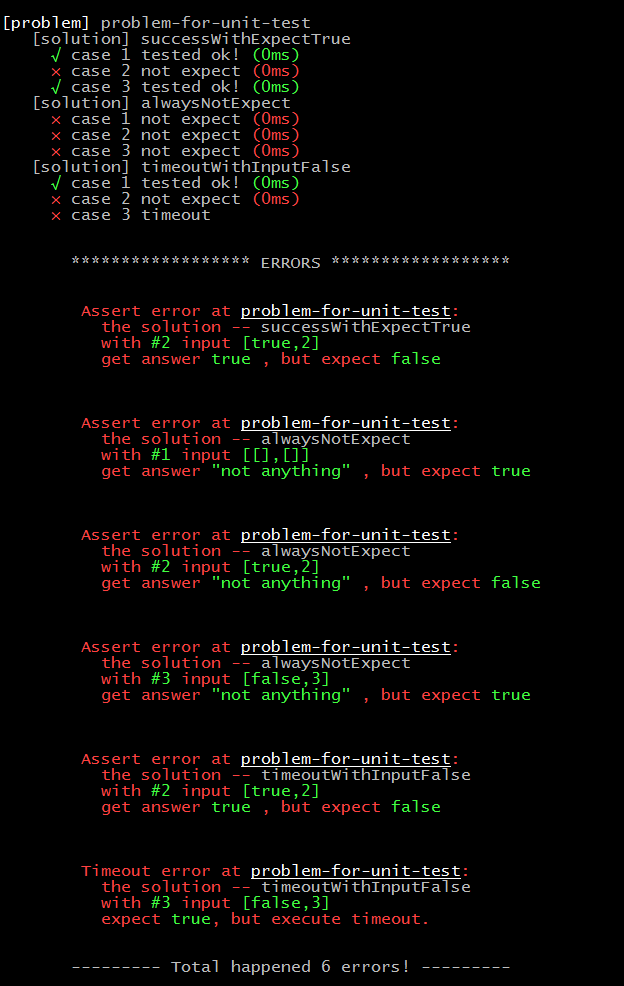
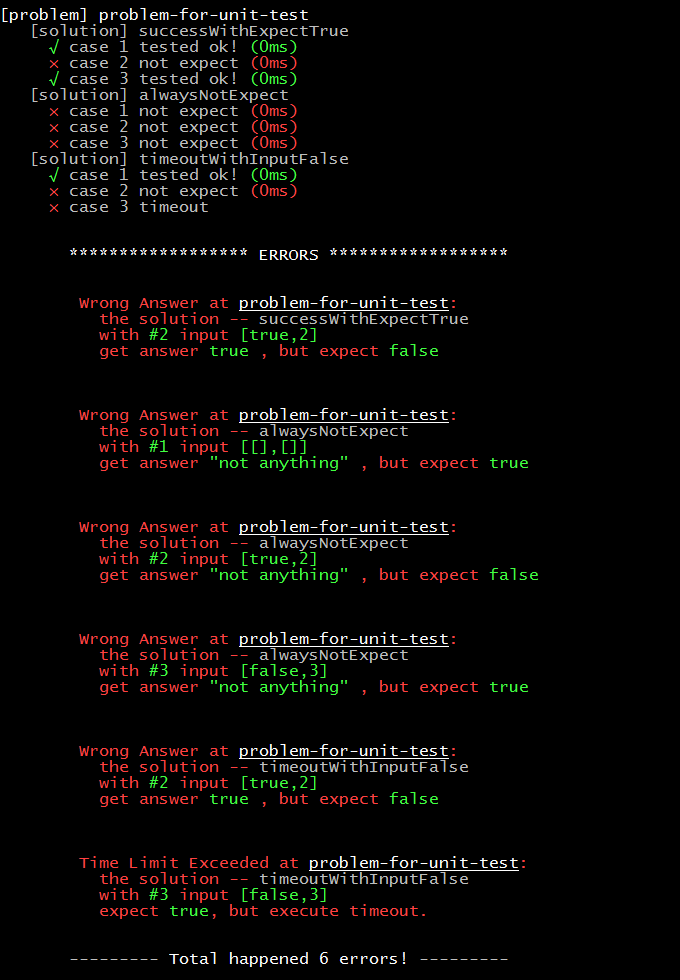
feat(errors): add Compile Error, rename errors class

diff --git a/libs/errors.js b/libs/errors.js
@@ -4,17 +4,17 @@ chalk.level = 3
 const { whiteBright, white, redBright: red, greenBright: green } = chalk
 
 
-class AssertException extends Error {
+class WrongAnswerException extends Error {
   constructor ({ problem, solveName, caseIndex, input, answer, expect }) {
     let message = red(`
-        Assert error at ${whiteBright.underline(problem)}:
+        Wrong Answer at ${whiteBright.underline(problem)}:
           the solution -- ${white(solveName)}
           with ${green('#')}${green(caseIndex)} input ${green(JSON.stringify(input))}
           get answer ${green(JSON.stringify(answer))} , but expect ${green(JSON.stringify(expect))}
 
     `)
     super(message)
-    this.name = 'AssertException'
+    this.name = 'WrongAnswerException'
   }
 
   toJSON () {
@@ -22,21 +22,34 @@ class AssertException extends Error {
   }
 }
 
-class TimeoutException extends Error {
+class TimeLimitException extends Error {
   constructor ({ problem, solveName, caseIndex, input, expect, timeout }) {
-    let message = ''
-    if (problem && solveName) {
-      message = red(`
-        Timeout error at ${whiteBright.underline(problem)}:
+    let message = red(`
+        Time Limit Exceeded at ${whiteBright.underline(problem)}:
           the solution -- ${white(solveName)}
           with ${green('#' + caseIndex)} input ${green(JSON.stringify(input))}
           expect ${green(JSON.stringify(expect))}, but execute timeout.
 
-      `)
-    }
+    `)
     super(message)
-    this.name = 'TimeoutException'
+    this.name = 'TimeLimitException'
     this.timeout = timeout
+  }
+
+  toJSON () {
+    return this.message
+  }
+}
+
+class CompileException extends Error {
+  constructor ({ problem, stack }) {
+    let message = red(`
+        Compile Error at ${whiteBright.underline(problem)}:
+        ${white(stack.replace(/\n/g, '\n        '))}
+
+    `)
+    super(message)
+    this.name = 'CompileErrorException'
   }
 
   toJSON () {
@@ -50,14 +63,14 @@ function showErrorStack (errors) {
     console.error()
     console.error(
       '      ',
-      '****************** ERRORS ******************'
+      whiteBright('****************** ERRORS ******************')
     )
     console.error()
     for (let error of errors) console.error(error)
     console.error(
       '      ',
       '---------',
-      `Total happened ${errors.length} errors!`,
+      whiteBright(`Total happened ${errors.length} errors!`),
       '---------'
     )
     console.error()
@@ -65,7 +78,8 @@ function showErrorStack (errors) {
 }
 
 module.exports = {
-  AssertException,
-  TimeoutException,
+  WrongAnswerException,
+  TimeLimitException,
+  CompileException,
   showErrorStack
 }

diff --git a/test/index.js b/test/index.js
@@ -1,8 +1,8 @@
 const fs = require('fs')
 const path = require('path')
 const cluster = require('cluster')
-const { showErrorStack } = require('../libs/errors')
-const { whiteBright: white } = require('chalk')
+const { CompileException, showErrorStack } = require('../libs/errors')
+const { whiteBright: white, redBright: red } = require('chalk')
 const { config } = require('../libs/configs')
 const Solver = require('./solver')
 
@@ -10,6 +10,7 @@ const Solver = require('./solver')
 const pathBase = path.join(__dirname, '..')
 const problemBase = path.join(pathBase, config.problemBase)
 const problems = fs.readdirSync(problemBase)
+
 
 class Leetsolve {
   constructor () {
@@ -20,13 +21,25 @@ class Leetsolve {
     for (let problem of problems) {
       let problemPath = path.join(problemBase, problem)
       if (!fs.statSync(problemPath).isDirectory()) continue
+      console.log()
+      console.log(white('[problem]'), white(problem))
 
-      console.log(white('[problem]'), problem)
+      let solutions = null
+      let testcases = null
+      try {
+        solutions = require(problemPath)
+        testcases = require(path.join(problemPath, config.casefile))
+      } catch (e) {
+        if (e instanceof SyntaxError) {
+          let error = new CompileException({ problem, stack: e.stack })
+          this.errors.push(error.message)
+          console.warn('    ', red('×'), 'solutions Compile Error')
+          continue
+        }
+        throw e
+      }
 
-      let solutions = require(problemPath)
-      let testcases = require(path.join(problemPath, config.casefile))
       if (!(solutions instanceof Array)) solutions = [solutions]
-
       let solver = new Solver(problemPath, solutions, testcases, this.errors)
       await solver.solutionsHandle()
     }

diff --git a/test/solver.js b/test/solver.js
@@ -2,8 +2,8 @@ const path = require('path')
 const assert = require('assert')
 const cluster = require('cluster')
 const {
-  AssertException,
-  TimeoutException
+  WrongAnswerException,
+  TimeLimitException
 } = require('../libs/errors')
 const { redBright: red, greenBright: green } = require('chalk')
 const { config, configName } = require('../libs/configs')
@@ -45,7 +45,7 @@ class Solver {
 
   getAssertError ({ caseIndex, answer }) {
     let { input, expect } = this.testcases[caseIndex]
-    return new AssertException({
+    return new WrongAnswerException({
       problem: this.problem,
       solveName: this.solveName,
       caseIndex: caseIndex + 1,
@@ -55,7 +55,7 @@ class Solver {
 
   getTimeoutError ({ caseIndex }) {
     let { input, expect } = this.testcases[caseIndex]
-    return new TimeoutException({
+    return new TimeLimitException({
       problem: this.problem,
       solveName: this.solveName,
       caseIndex: caseIndex + 1,
